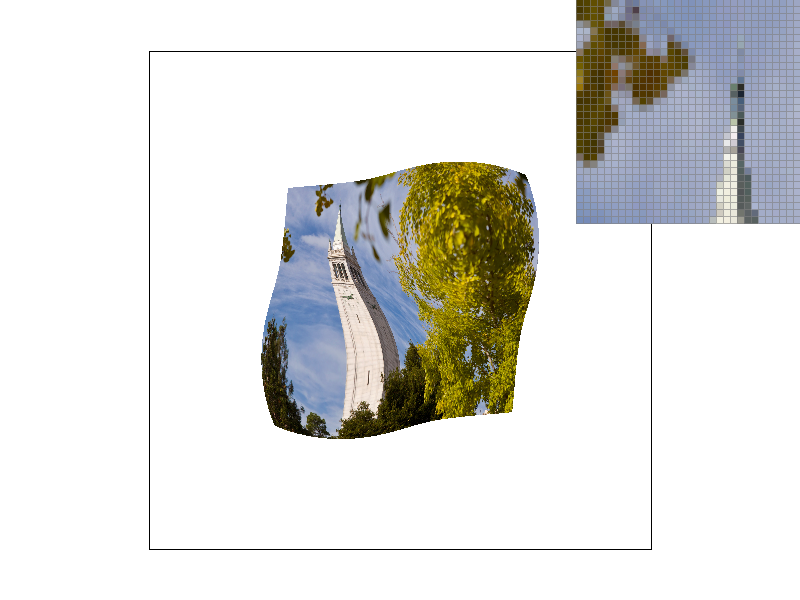
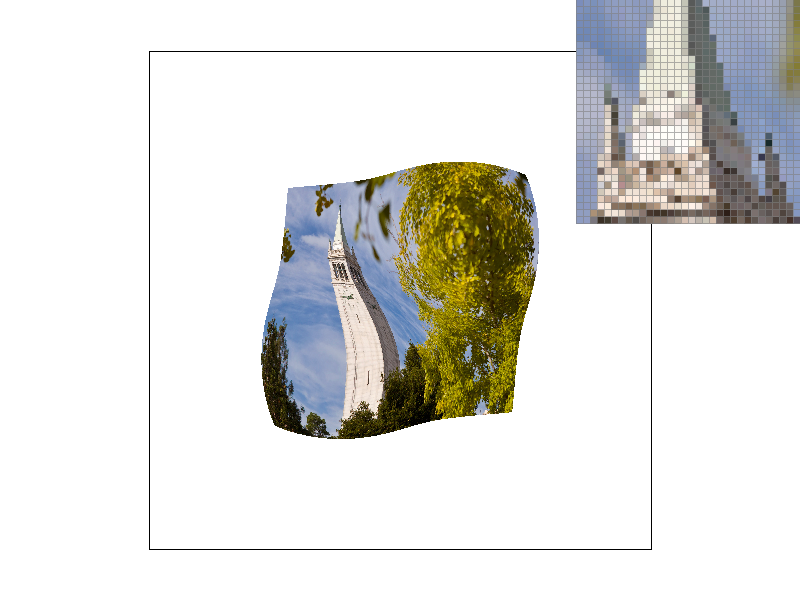
update

Changed region(s): [[0.7188, 0.0, 1.0, 0.39], [0.4375, 0.66, 0.4688, 0.69]]

diff --git a/proj1/index.html b/proj1/index.html
@@ -320,6 +320,13 @@
 	  </div>
 	</div>
 
+	We list the 4 sampling results (Nearest(SR=1/16), Bilinear(SR=1/16)) from a random figure. The results are shown above.
+	
+	<div style="display: flex; justify-content: center; align-items: center; padding: 5px; text-align: center">
+		<img src="images/diff_1.png" alt="Image 4_2", width="300">
+		<div class="caption">Slight different when SR=1, upper is nearest and lower is bilinear. </div>
+	  </div>
+
 
     <h2>Task 6</h2>
     <p><!-- Your explanation for Task 6 goes here --></p>
